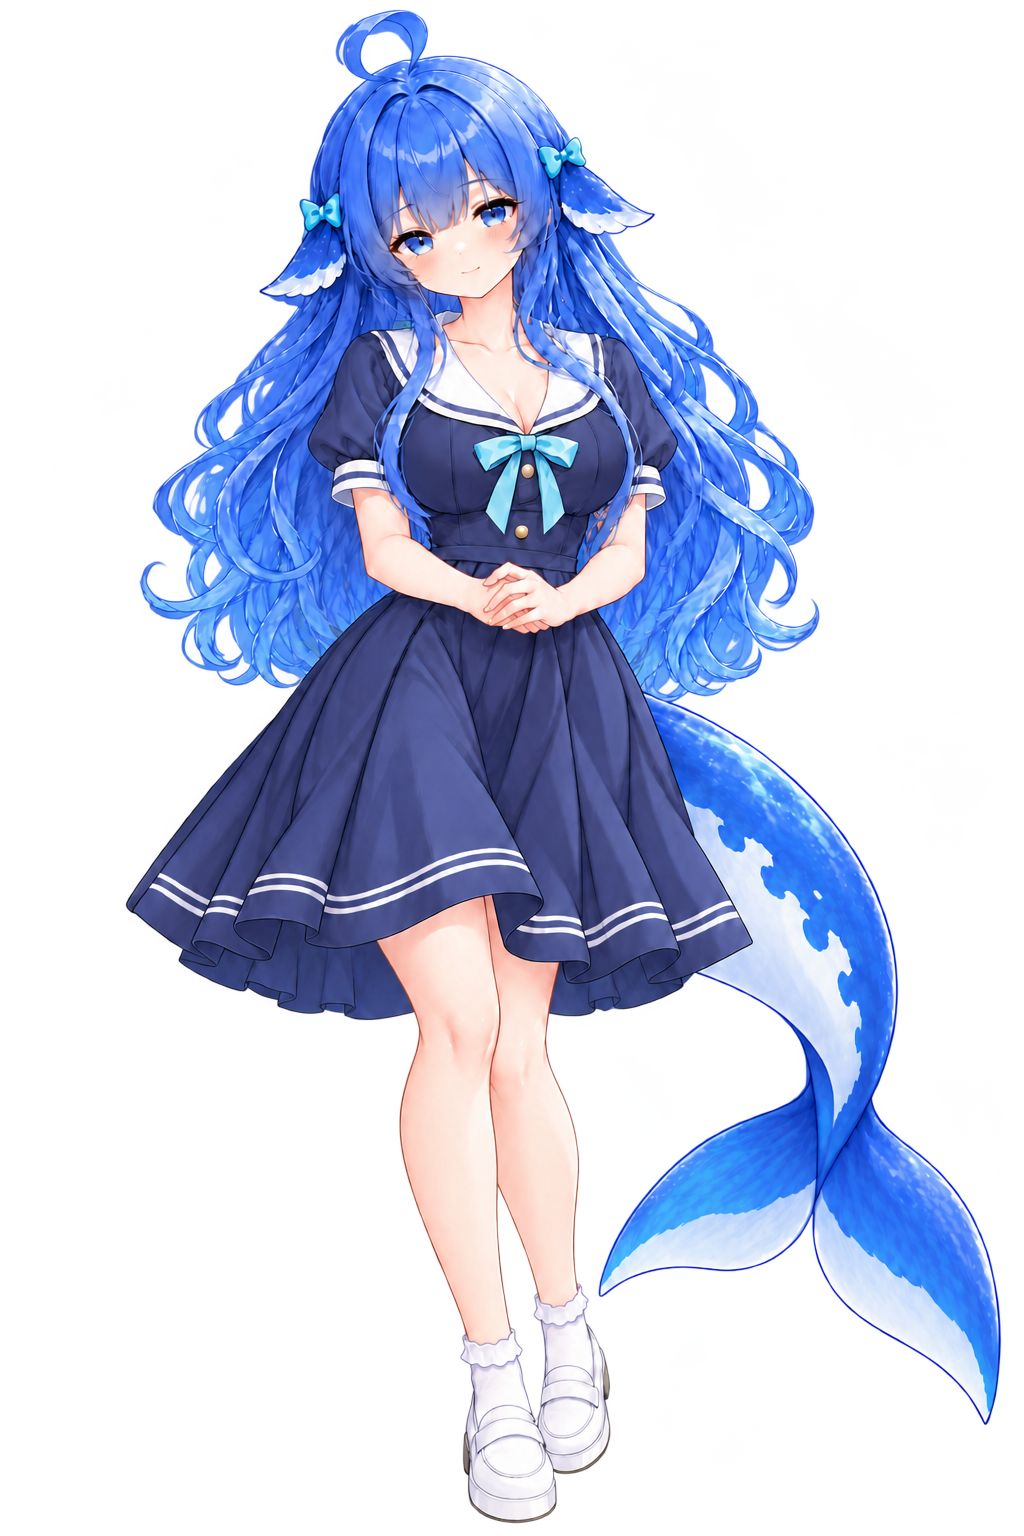
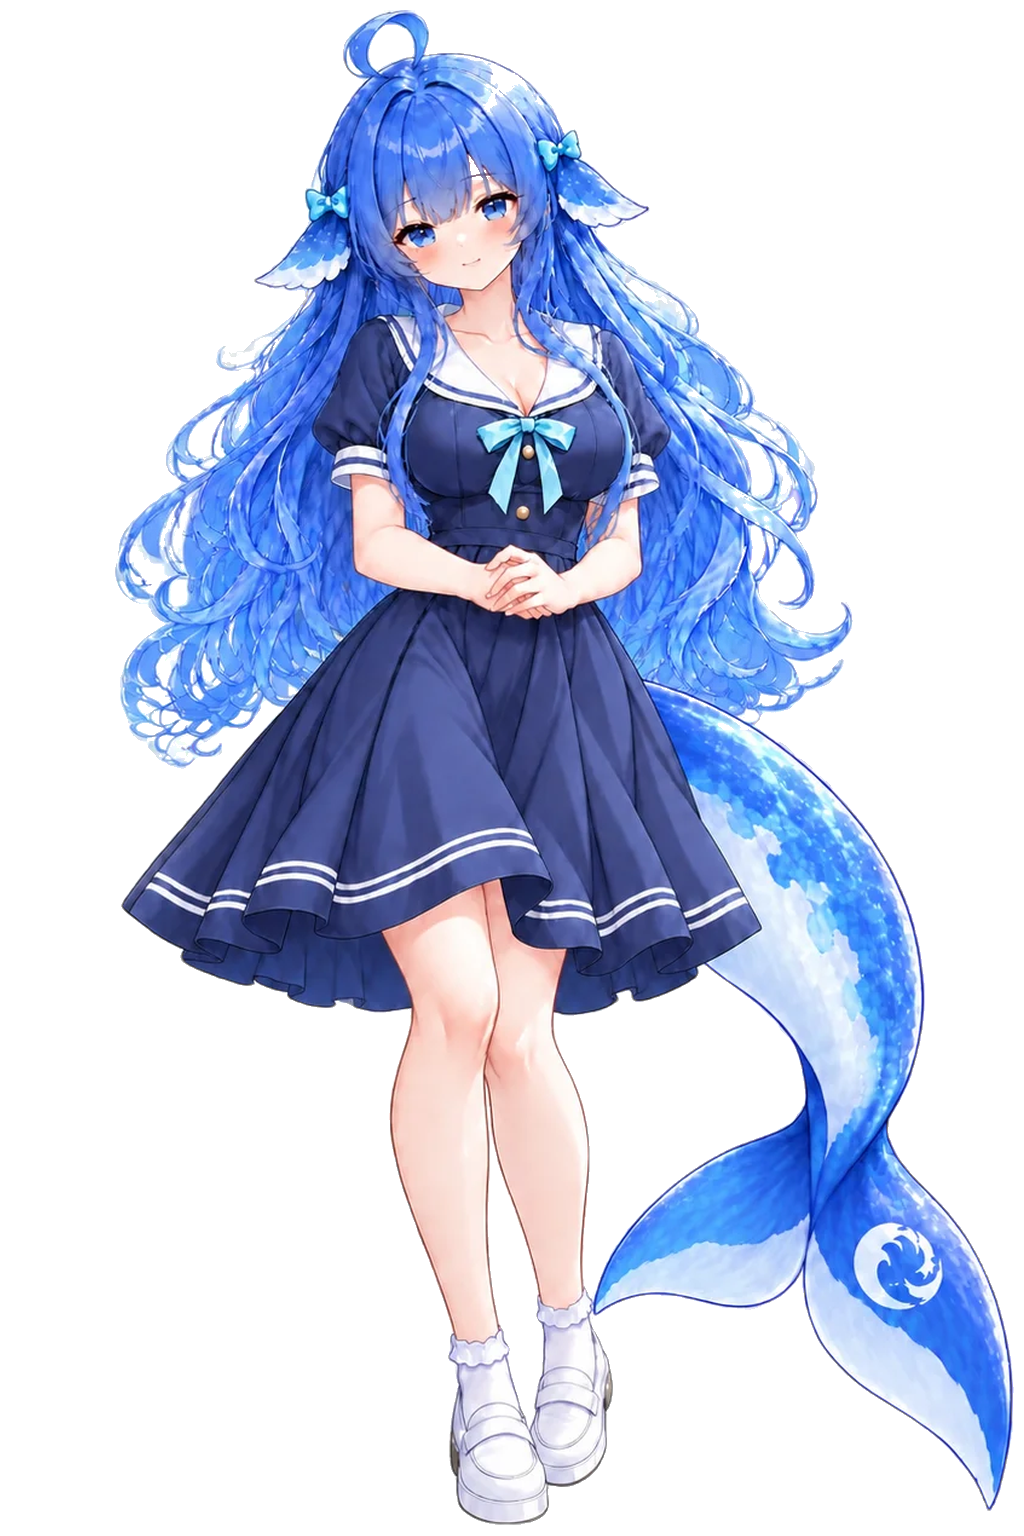
art: L07 换成用户改稿（抠图、发丝镂空）

Changed region(s): [[0.0938, 0.0, 1.0, 1.0], [0.4062, 0.7812, 0.4375, 0.8438]]

diff --git a/docs/collab/work-ledger/playtest-ledger-20261018.md b/docs/collab/work-ledger/playtest-ledger-20261018.md
@@ -68,3 +68,4 @@
 - 10:56 用户：新 L06 腿不对（膝盖拧在一起、右大腿接错、腿间夹一缕蓝）。以旧版腿为参照透明底重画，只把裙下腿部区域羽化合成回来，头发镂空与尾巴保持不变。
 - 11:27 用户发来自己改好的 L03 害羞（白底 1254x1254），要求换进游戏。处理：抠图，去掉发丝间残留的白色，按旧版人物高度放大约 1.25 倍放进 1024x1536 画布。原稿入库 docs/collab/playtest/。
 - 11:45 用户发来自己改好的 L05 生气（透明底），已原样换入。
+- 12:20 用户发来自己改好的 L07 柔和，已换入。用户规定：以后发图默认就是换图，不必重做单文件试玩版。
